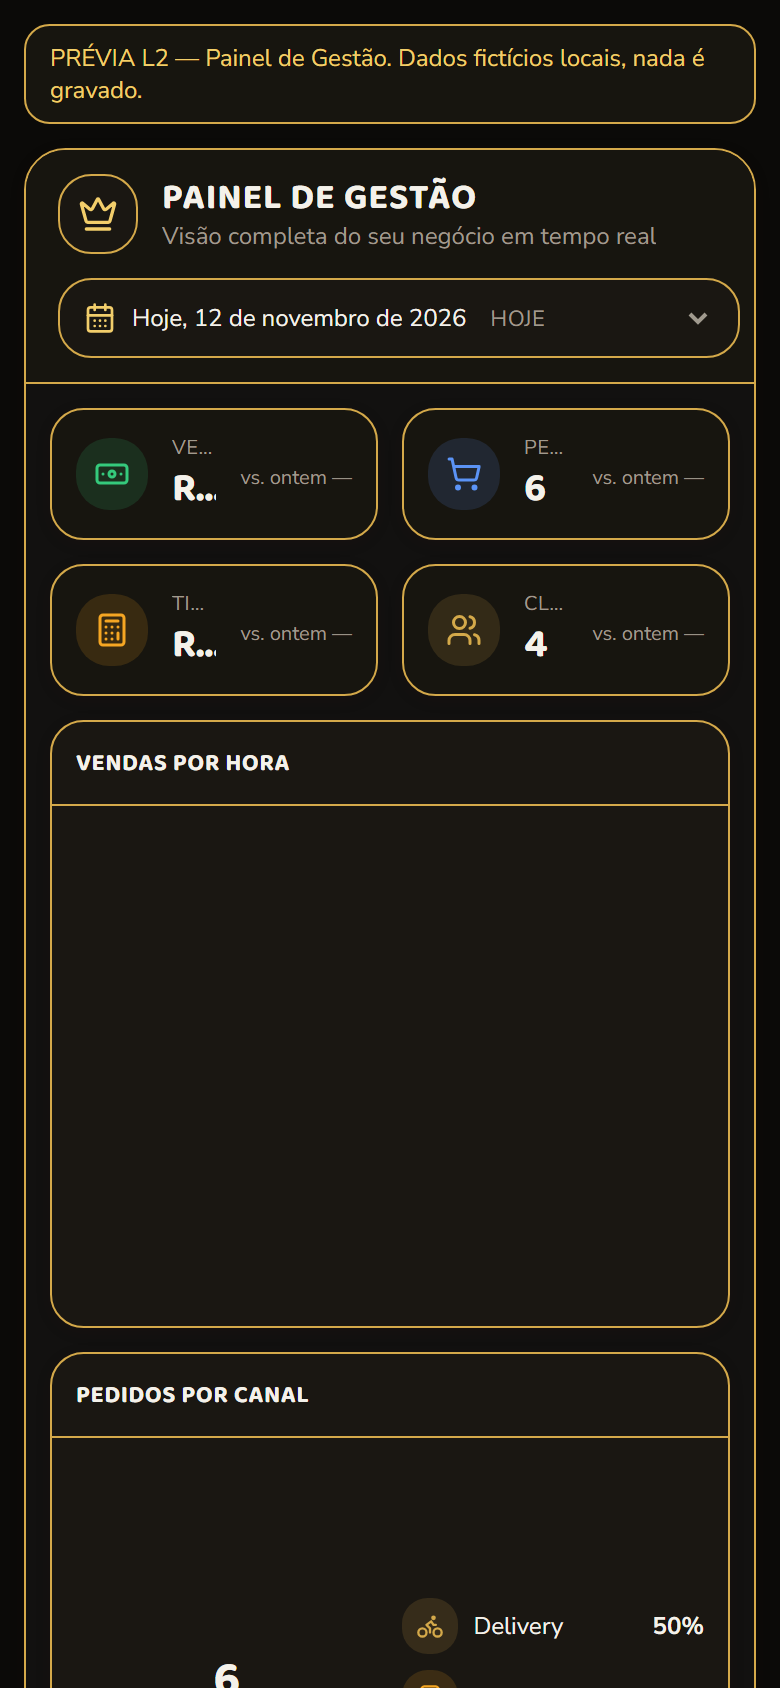
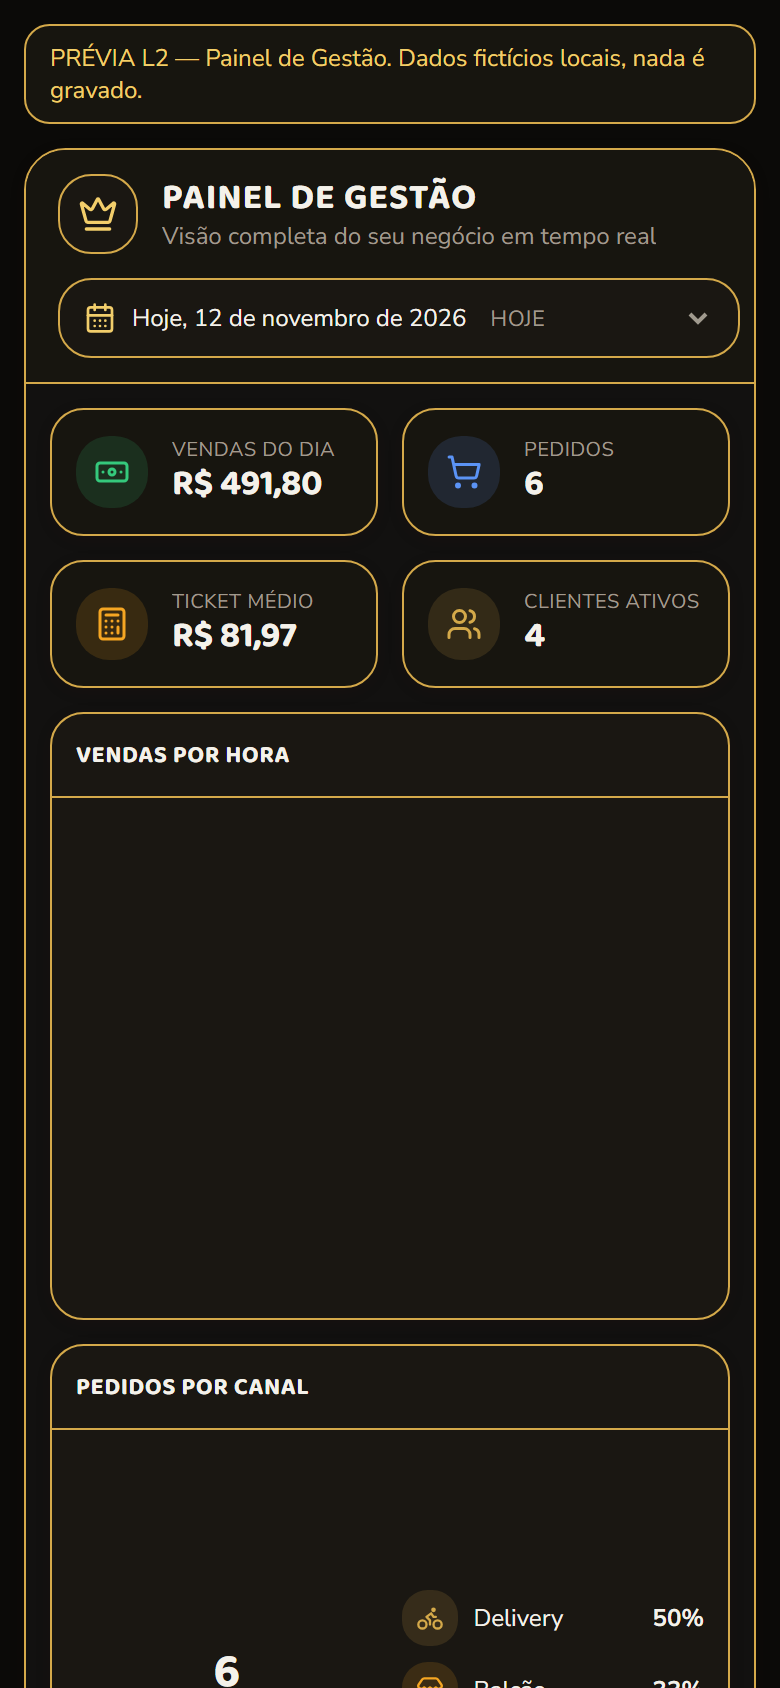
docs: registra as decisoes do proprietario e a correcao do AdminShell

diff --git a/docs/homologacao/RELATORIO-DASHBOARD-REFERENCIA.md b/docs/homologacao/RELATORIO-DASHBOARD-REFERENCIA.md
@@ -108,7 +108,38 @@ Dados, regras de negócio, autenticação e consultas permaneceram **intactos** 
 
 ---
 
-## 8. Observações para a próxima etapa
+## 8. Decisões do proprietário aplicadas (2026-11-12)
+
+| Decisão | Aplicação |
+|---|---|
+| **1. Sidebar** — manter o menu existente, com aparência fiel à referência; sem duplicar menus | `src/components/admin/admin-shell.tsx` reescrito: largura compacta (14rem), fundo preto, moldura/bordas douradas, marca com coroa + "Néia Salgados / Painel de Gestão", **item ativo em pílula dourada** (gradiente, texto escuro), ícones dourados, grupos discretos, rodapé com usuário (avatar + ponto verde) + Atualizar/Sair. Nenhum item de menu duplicado ou removido; a **foto de salgados e a frase promocional seguem fora** |
+| **2. Quarta métrica** — manter "Clientes Ativos"; "Lucro Estimado" só com custo real e confiável | Mantido "Clientes Ativos" (dado real). Nenhum número de lucro foi inventado |
+| **3. Blocos extras** — busca e ações secundárias em seção recolhível abaixo do painel; alertas críticos visíveis | Busca global, Central de Operação, Ações Rápidas, Caixa, Impressão e atalhos por módulo foram movidos para `<details>` **"Operação em detalhes"** abaixo do painel. Alertas de severidade máxima (ex.: "Estoque baixo") continuam **sempre visíveis** em faixa própria fora do acordeão |
+
+### Bug crítico encontrado e corrigido nesta rodada
+
+`AdminShell` montava a sidebar e **descartava `{children}`** — a página `/admin` ficava **somente com o menu lateral**, sem topbar, sem abas e sem o Dashboard. Confirmado no site publicado (`erp-neia-salgados.vercel.app/admin` não continha "Vendas do Dia", "Painel de Gestão" nem "Ações Rápidas" no HTML). Isso explica por que Dashboard e Central de Entregas "não apareciam" nas capturas anteriores — não era falta de admin.
+
+Correção: o conteúdo passa a ser renderizado em `<SidebarInset>` ao lado da sidebar (`src/components/admin/admin-shell.tsx`).
+
+---
+
+## 9. Confirmação: a captura corresponde ao código publicado
+
+| Verificação | Resultado |
+|---|---|
+| SHA do deploy Vercel = SHA local | ✅ `7ff2da3a80e187556ed4bf86b26f329ad6b64c55` |
+| Deployment | `dpl_E2Ht9hKemtaBGJuTZPfQnuH4kfFG` — `target: preview`, `READY` |
+| URL | `https://erp-neia-salgados-hua76x1bx-luiz988061337-3147s-projects.vercel.app` |
+| HTML servido pelo Preview contém "Painel de Gestão", "Visão completa do seu negócio em tempo real", "Operação em detalhes", "Estoque baixo", "Clientes Ativos", "Ticket Médio", "Vendas do Dia", "Delivery/Balcão/Encomendas", `erp-admin`, `erp-btn-gold`, `line-clamp-2` | ✅ todos presentes |
+| Captura do **Preview hospedado** (SSR) | `docs/preview-captures/prints/preview-gestao-desktop.png` — sidebar, painel, métricas, 3 blocos, alerta crítico e acordeão idênticos à captura local |
+| Captura completa (com gráficos) | `docs/erp-dark/prints/gestao-DEPOIS.png` (render local do mesmo commit `7ff2da3`) |
+
+> Nota: no espelho SSR os dois gráficos (área e donut) ficam vazios porque o JavaScript não hidrata ali; no Preview real com o bundle servido eles desenham normalmente (confirmado na captura local e no `debug-chart.mjs`).
+
+---
+
+## 10. Observações para a próxima etapa
 
 1. A referência mostra uma **sidebar interna** do painel (Início/Vendas/Pedidos/…). No ERP real a navegação já é o **shell do admin** (sidebar global) — evita duplicar menus. Se quiser a sidebar interna dentro do painel, é só dizer.
 2. A 4ª métrica é **"Clientes Ativos"** (dado real). A referência usa "Lucro Estimado"; para calcular lucro real é preciso custo por produto/embalagem (hoje o painel não tem essa fonte) — posso incluir se houver dado de custo disponível.
